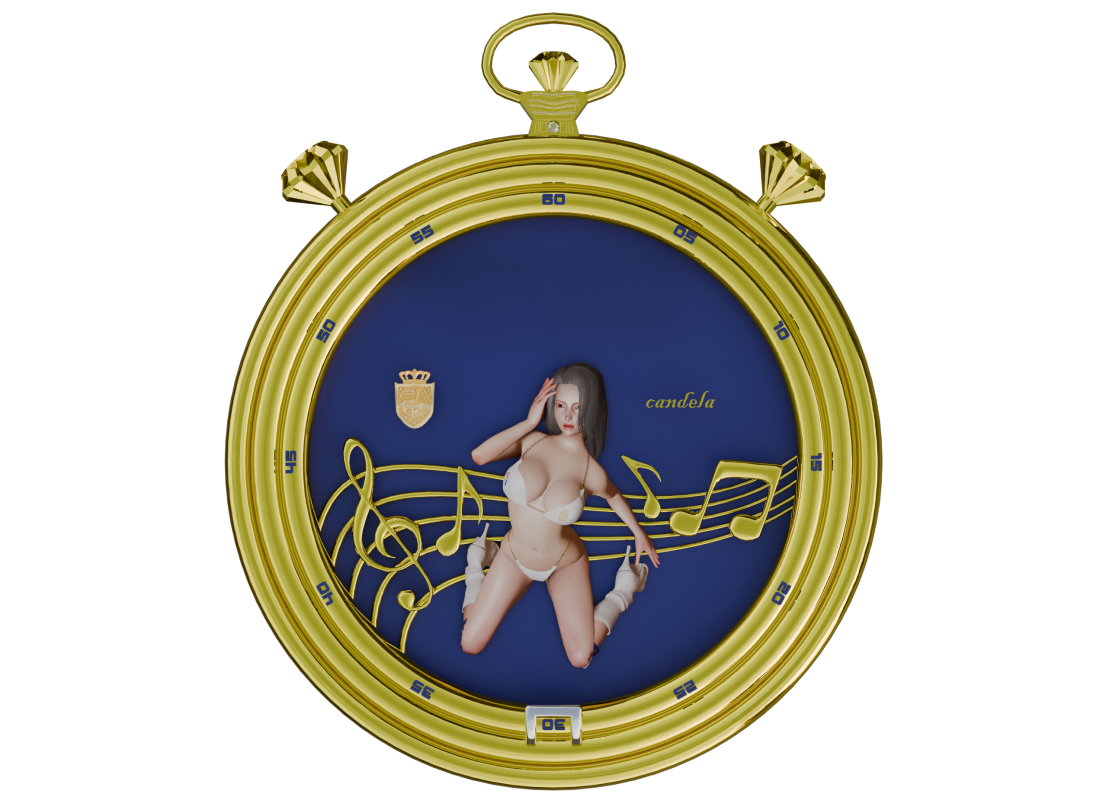
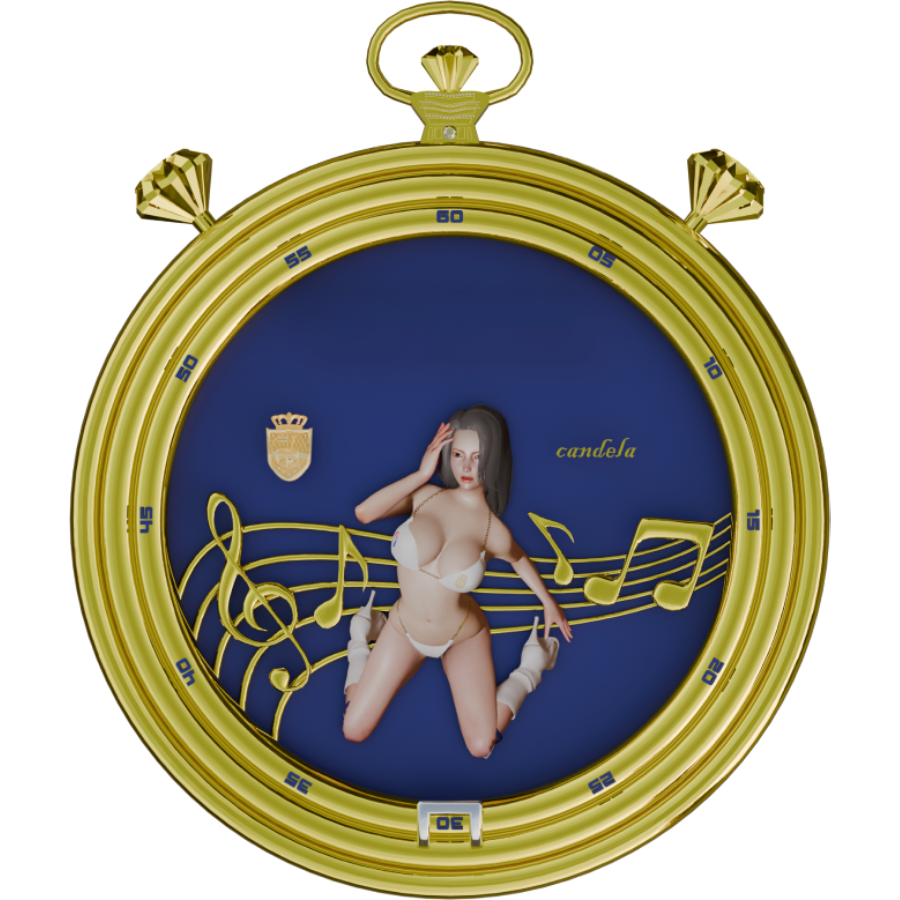
Add image change

diff --git a/lib/src/features/home/widgets/song_timer.dart b/lib/src/features/home/widgets/song_timer.dart
@@ -1,6 +1,9 @@
+import 'package:candela_maker/src/common_widgets/primary_button.dart';
 import 'package:candela_maker/src/constants/constants.dart';
 import 'package:candela_maker/src/features/home/controllers/timer_controller.dart';
+import 'package:candela_maker/src/widgets/text_input_field.dart';
 import 'package:flutter/material.dart';
+import 'package:flutter_form_builder/flutter_form_builder.dart';
 import 'package:flutter_svg/flutter_svg.dart';
 import 'package:get/get.dart';
 import 'package:stop_watch_timer/stop_watch_timer.dart';
@@ -25,9 +28,65 @@ class _SongTimerState extends State<SongTimer> {
     setState(() {
       stopTime += _stopWatchTimer.rawTime.value;
     });
+    timerController.totalAmout.value += timerController.amout.value;
     timerController.numberOfSongs.value++;
     timerController.time.value =
         StopWatchTimer.getDisplayTime(stopTime, hours: false);
+  }
+  onPriceSave(int newPrice) {
+    timerController.amout.value = newPrice;
+  }
+
+  imageToggle() {
+    print(timerController.secondryBackgorund.value);
+    timerController.secondryBackgorund.value =
+        !timerController.secondryBackgorund.value;
+  }
+
+  onPriceEdit(BuildContext context, Size size) {
+    final formKey = GlobalKey<FormBuilderState>();
+
+    showModalBottomSheet(
+      context: context,
+      backgroundColor: Colors.black, // Set the background color to black
+      builder: (BuildContext context) {
+        // Return the widget that will be displayed in the bottom sheet
+        return Container(
+          padding: const EdgeInsets.all(20),
+          child: FormBuilder(
+            key: formKey,
+            child: Column(
+              mainAxisSize: MainAxisSize
+                  .min, // Make the column only as tall as its children
+              children: <Widget>[
+                const Text("Enter Price",
+                    style: TextStyle(color: Colors.white)),
+                TextInputField(
+                  value: timerController.amout.value.toString(),
+                  name: "price",
+                  keyboard: const TextInputType.numberWithOptions(),
+                ),
+                Padding(
+                  padding: const EdgeInsets.all(8.0),
+                  child: PrimaryButton(
+                    text: "Save",
+                    press: () {
+                      onPriceSave(int.parse(
+                          formKey.currentState!.fields['price']!.value));
+                      Navigator.pop(context);
+                    },
+                    width: 0.5,
+                  ),
+                ),
+                const SizedBox(
+                  height: 200,
+                )
+              ],
+            ),
+          ),
+        );
+      },
+    );
   }
 
   @override
@@ -38,7 +97,7 @@ class _SongTimerState extends State<SongTimer> {
   @override
   void dispose() async {
     super.dispose();
-    await _stopWatchTimer.dispose(); // Need to call dispose function.
+    await _stopWatchTimer.dispose(); 
   }
 
   @override
@@ -51,11 +110,19 @@ class _SongTimerState extends State<SongTimer> {
       children: [
         Stack(
           children: [
-            // image is responsive and get the possible widht without overflow
-            Center(
-              child: Image.asset(
-                timerMainImage,
-                width: size.width * 0.8,
+            //1108 966
+            GestureDetector(
+              onTap: imageToggle,
+              child: Obx(
+                () => Center(
+                  child: Image.asset(
+                    timerController.secondryBackgorund.value
+                        ? timerSecondImage
+                        :
+                    timerMainImage,
+                    width: size.width * 0.6,
+                  ),
+                ),
               ),
             ),
             StreamBuilder<int>(
@@ -120,11 +187,12 @@ class _SongTimerState extends State<SongTimer> {
                     null,
                     size,
                     "\$ ${timerController.amout.value}",
+                      () => onPriceEdit(context, size)
                   ),
                   outlineBox(
                     null,
                     size,
-                    "Timer ${timerController.time.value}",
+                    "Timer ${timerController.time.value}", null
                   ),
                 ],
               ),
@@ -138,11 +206,12 @@ class _SongTimerState extends State<SongTimer> {
                     null,
                     size,
                     "Total Songs ${timerController.numberOfSongs.value}",
+                      null
                   ),
                   outlineBox(
                     null,
                     size,
-                    "Total \$ ${timerController.numberOfSongs.value * timerController.amout.value}",
+                      "Total \$ ${timerController.totalAmout.value}", null
                   ),
                 ],
               ),
@@ -153,27 +222,30 @@ class _SongTimerState extends State<SongTimer> {
     );
   }
 
-  Widget outlineBox(String? icon, Size size, String text) {
-    return Container(
-      width: size.width * 0.35,
-      height: 28,
-      decoration: BoxDecoration(
-          borderRadius: BorderRadius.circular(5),
-          border: Border.all(
-            color: kPrimaryColor,
-          )),
-      child: Row(mainAxisAlignment: MainAxisAlignment.center, children: [
-        icon != null
-            ? SvgPicture.asset(
-                icon,
-                width: size.width * 0.15,
-              )
-            : Container(),
-        Text(
-          text,
-          style: const TextStyle(color: kTextColor),
-        )
-      ]),
+  Widget outlineBox(String? icon, Size size, String text, VoidCallback? onTap) {
+    return InkWell(
+      onTap: onTap,
+      child: Container(
+        width: size.width * 0.35,
+        height: 28,
+        decoration: BoxDecoration(
+            borderRadius: BorderRadius.circular(5),
+            border: Border.all(
+              color: kPrimaryColor,
+            )),
+        child: Row(mainAxisAlignment: MainAxisAlignment.center, children: [
+          icon != null
+              ? SvgPicture.asset(
+                  icon,
+                  width: size.width * 0.15,
+                )
+              : Container(),
+          Text(
+            text,
+            style: const TextStyle(color: kTextColor),
+          )
+        ]),
+      ),
     );
   }
 }

diff --git a/lib/src/features/authentication/register/register.dart b/lib/src/features/authentication/register/register.dart
@@ -15,8 +15,6 @@ import 'package:form_builder_phone_field/form_builder_phone_field.dart';
 import 'package:form_builder_validators/form_builder_validators.dart';
 import 'package:get/get.dart';
 import 'package:get/route_manager.dart';
-
-import '../../membership_level/controller/membership_controller.dart';
 import '../../membership_level/membership_level.dart';
 import '../models/user_model.dart';
 import '../services/auth_service.dart';
@@ -96,7 +94,7 @@ class _RegisterState extends State<Register> {
                       const SizedBox(height: 21),
                       const InputTitle(title: "Address"),
                       const SizedBox(height: 9),
-                      const TextInputField(name: "address"),
+                      TextInputField(name: "address"),
                       const SizedBox(height: 21),
                       const InputTitle(title: "Email"),
                       const SizedBox(height: 9),
@@ -190,19 +188,19 @@ class _RegisterState extends State<Register> {
                       const SizedBox(height: 21),
                       const InputTitle(title: "Bank Name"),
                       const SizedBox(height: 9),
-                      const TextInputField(name: "bankname"),
+                      TextInputField(name: "bankname"),
                       const SizedBox(height: 21),
                       const InputTitle(title: "Bank Routing Number"),
                       const SizedBox(height: 9),
-                      const TextInputField(name: "bankroutingnumber"),
+                      TextInputField(name: "bankroutingnumber"),
                       const SizedBox(height: 21),
                       const InputTitle(title: "Bank Account Number"),
                       const SizedBox(height: 9),
-                      const TextInputField(name: "bankaccountnumber"),
+                      TextInputField(name: "bankaccountnumber"),
                       const SizedBox(height: 21),
                       const InputTitle(title: "Set Price per Song"),
                       const SizedBox(height: 9),
-                      const TextInputField(name: "songprice"),
+                      TextInputField(name: "songprice"),
                       const SizedBox(height: 21),
                       FormBuilderImagePicker(
                         previewHeight: 29,

diff --git a/lib/src/widgets/text_input_field.dart b/lib/src/widgets/text_input_field.dart
@@ -4,11 +4,17 @@ import 'package:flutter_form_builder/flutter_form_builder.dart';
 
 class TextInputField extends StatelessWidget {
   final String name;
+  final TextInputType keyboard;
+  var value;
+  
   final String? Function(String?)? validator;
-  const TextInputField({
+  TextInputField(
+      {
     super.key,
     required this.name,
+      this.keyboard = TextInputType.text,
     this.validator,
+      this.value
   });
 
   @override
@@ -18,6 +24,8 @@ class TextInputField extends StatelessWidget {
         color: Colors.white,
         fontSize: 14,
       ),
+      initialValue: value,
+      keyboardType: keyboard,
       cursorColor: Colors.white,
       name: name,
       validator: validator,

diff --git a/lib/src/constants/constants.dart b/lib/src/constants/constants.dart
@@ -11,6 +11,8 @@ const kDefaultPadding = EdgeInsets.symmetric(horizontal: 20);
 
 //Images
 const timerMainImage = 'assets/images/main-timer.png';
+const timerSecondImage = 'assets/images/splash-model.png';
+
 const tapToStop = 'assets/images/svg/tap-2-stop.svg';
 const tapToStart = 'assets/images/svg/tap-2-start.svg';
 const notes = 'assets/images/svg/notes.svg';

diff --git a/lib/src/features/home/controllers/timer_controller.dart b/lib/src/features/home/controllers/timer_controller.dart
@@ -5,5 +5,8 @@ class TimerController extends GetxController {
 
   RxString time = "00:00:00".obs;
   RxInt amout = 25.obs;
-  RxInt numberOfSongs = 5.obs;
+  RxInt numberOfSongs = 0.obs;
+  RxBool secondryBackgorund = false.obs;
+  RxInt totalAmout = 0.obs;
+
 }

diff --git a/lib/src/features/home/home_screen.dart b/lib/src/features/home/home_screen.dart
@@ -55,6 +55,7 @@ class _HomeScreenState extends State<HomeScreen> {
         ],
       )),
       bottomNavigationBar: const BottomNavBar(index: 0),
+      resizeToAvoidBottomInset: false,
     );
   }
 }
